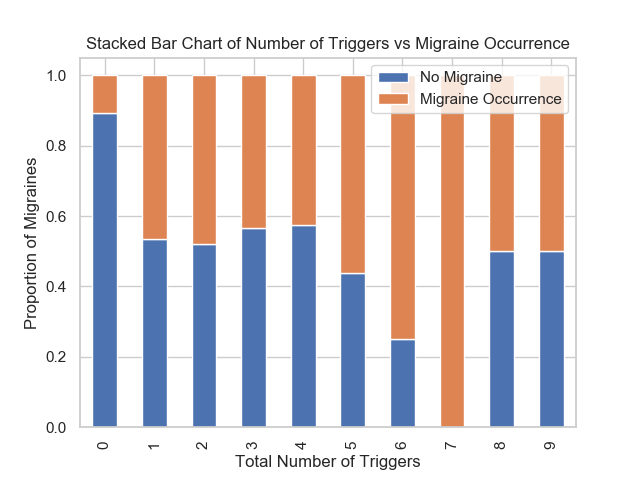
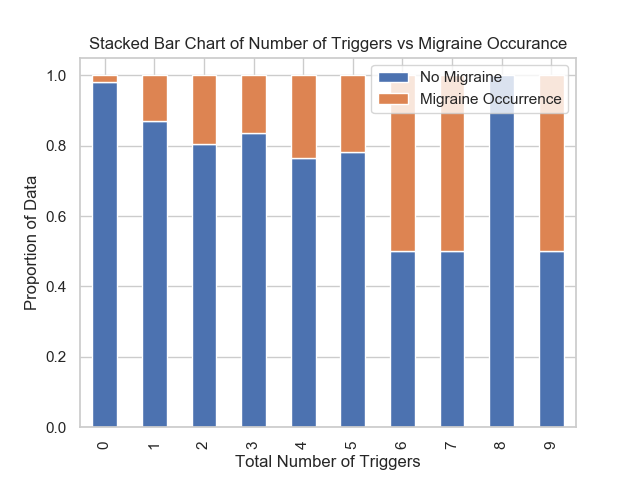
data visualization

diff --git a/data_visualization.py b/data_visualization.py
@@ -1,0 +1,50 @@
+import numpy as np
+import pandas as pd
+import matplotlib.pyplot as plt
+import seaborn as sns
+import utils
+
+sns.set(style="white")
+sns.set(style="whitegrid", color_codes=True)
+
+data = pd.read_csv('total_diary_migraine.csv', header=0)
+features = pd.DataFrame(data)
+features['no_headache_day'].fillna('N', inplace=True)
+
+features['migraine'].fillna(0, inplace=True)
+features['headache_day'] = features['headache_day'].map({'Y':0, 'N':1})
+
+labels = np.array(features['migraine'])
+
+"""
+# plot for migraines vs no migraine
+
+print(features['migraine'].value_counts())
+
+fig, ax = plt.subplots()
+sns.countplot(x='migraine', data=features, palette='hls')
+ax.set(xlabel="Migraine Occurrence", ylabel = "Number of Occurrences")
+labels = [item.get_text() for item in ax.get_xticklabels()]
+labels[0] = 'No'
+labels[1] = "Yes"
+ax.set_xticklabels(labels)
+plt.savefig('count_plot_migraines')
+
+# plot for total triggers vs migraine
+pd.crosstab(features.total_triggers, features.migraine).plot(kind='bar')
+plt.title('Migraine Frequency for Number of Triggers')
+plt.xlabel('Number of Triggers')
+plt.ylabel('Frequency of Migraine')
+plt.xlim(-0.5,5.5)
+plt.savefig('migraine_fre_tot_trig')
+"""
+
+# stacked bar chart for total triggers vs migraine
+table = pd.crosstab(features.total_triggers,features.migraine)
+table.div(table.sum(1).astype(float), axis=0).plot(kind='bar', stacked=True)
+plt.title('Stacked Bar Chart of Number of Triggers vs Migraine Occurance')
+plt.xlabel('Total Number of Triggers')
+plt.ylabel('Proportion of Data')
+plt.legend(['No Migraine','Migraine Occurrence'])
+plt.savefig('total_trigger_vs_pur_stack')
+plt.show()
